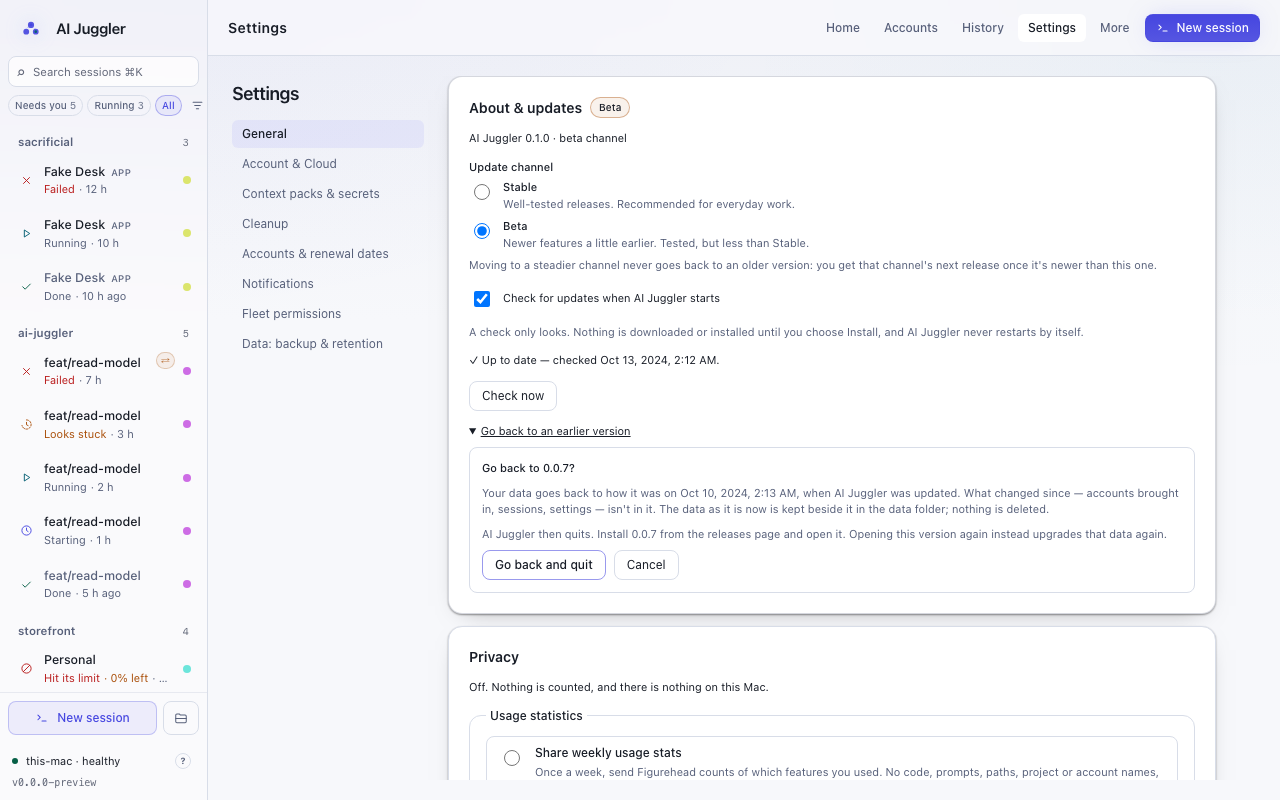
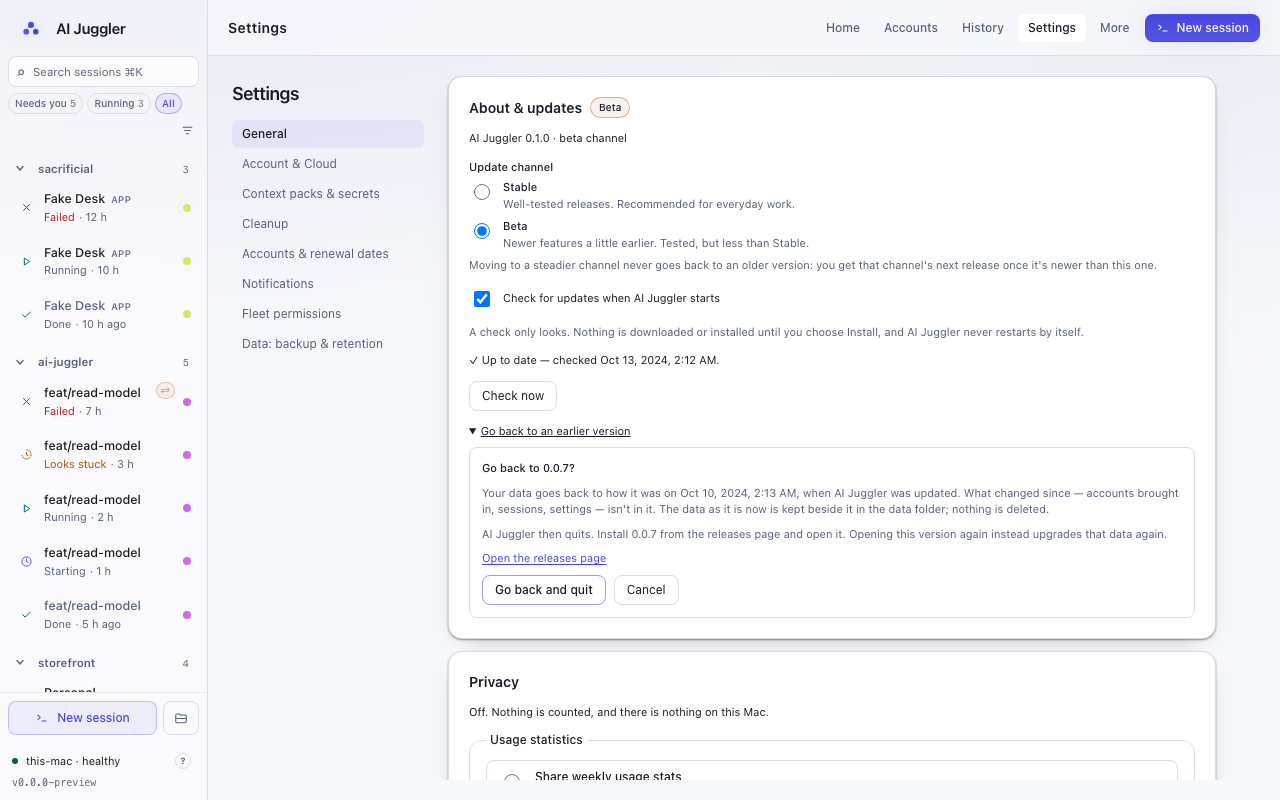
fix(updates): going back links to the version's release page (#107)
* fix(updates): going back links to the version's release page

0.0.11 walk, Q6 (coordinator: add an "Open the releases page" link next
to the install line). Going back said "Install 0.0.9 from the releases
page" with no link, and the next click quits the app. An "Open the
releases page" link now sits under that line. It opens the version's own
release (…/releases/tag/v0.0.9) when the kept copy names a plain version,
and the releases list otherwise. The URL is built in the backend
(newer_data::releases_page), so nothing else from the UI can reach the
link.

* docs(gallery): going back with the releases link

---------

Changed region(s): [[0.3438, 0.6875, 0.9688, 1.0], [0.0, 0.125, 0.1562, 0.875]]

diff --git a/ui/src/components/UpdatesCard.tsx b/ui/src/components/UpdatesCard.tsx
@@ -17,6 +17,7 @@ import { ReleaseNotes } from "./ReleaseNotes";
 import {
   errorText,
   goingBackOptions,
+  goingBackOpenReleases,
   goingBackPrepare,
   onUpdateStatus,
   updateCheck,
@@ -151,6 +152,16 @@ function GoingBack({ appName }: { appName: string }): JSX.Element | null {
               <p className="text-muted">
                 {appName} then quits. Install {name(option)} from the releases page and open it. Opening this version
                 again instead upgrades that data again.
+              </p>
+              <p>
+                <button
+                  type="button"
+                  onClick={() => void goingBackOpenReleases(option.version ?? null)}
+                  className="text-accent-hi underline underline-offset-2 outline-none hover:text-ink focus-visible:ring-1 focus-visible:ring-accent/60"
+                  data-testid="going-back-releases"
+                >
+                  Open the releases page
+                </button>
               </p>
               {error && (
                 <p role="alert" className="text-ink" data-testid="going-back-error">

diff --git a/ui/src/components/updates.test.tsx b/ui/src/components/updates.test.tsx
@@ -331,6 +331,14 @@ describe("AJ-E1010 going back to an earlier version", () => {
     expect(confirm.textContent).toContain("Install 0.0.7 from the releases page");
     expect(document.activeElement?.textContent).toBe("Go back to 0.0.7?");
     expect(calls()).toEqual([]);
+    // 0.0.11 walk, Q6: the install line links to that version's release,
+    // and opening it changes nothing here.
+    const releases = confirm.querySelector<HTMLButtonElement>("[data-testid='going-back-releases']")!;
+    expect(releases.textContent).toBe("Open the releases page");
+    fireEvent.click(releases);
+    expect(calls()).toEqual(["open-releases:0.0.7"]);
+    expect(container.querySelector("[data-testid='going-back-confirm']")).not.toBeNull();
+    w().__AIJ_UPDATE_CALLS__ = [];
     // Cancel returns focus to the choice; nothing happened.
     fireEvent.click(container.querySelector("[data-testid='going-back-cancel']")!);
     expect(document.activeElement?.getAttribute("data-testid")).toBe("going-back-27");

diff --git a/ui/src/lib/bridge.ts b/ui/src/lib/bridge.ts
@@ -4616,6 +4616,16 @@ export async function goingBackPrepare(schema: number): Promise<void> {
   return invoke<void>("going_back_prepare", { schema });
 }
 
+/** 0.0.11 walk (Q6): opens the page to install `version` from (its
+ * release, or the releases list). */
+export async function goingBackOpenReleases(version: string | null): Promise<void> {
+  if (!hasBackend) {
+    updateCall(`open-releases:${version ?? ""}`);
+    return;
+  }
+  return invoke<void>("going_back_open_releases", { version });
+}
+
 /** Update status changes pushed by the backend. */
 export function onUpdateStatus(handler: (status: UpdateStatusInfo) => void): () => void {
   if (!hasBackend) return () => {};

diff --git a/crates/juggler-app/src/newer_data.rs b/crates/juggler-app/src/newer_data.rs
@@ -361,6 +361,43 @@ pub fn going_back_prepare(state: tauri::State<'_, Arc<AppState>>, schema: i64) -
     Ok(())
 }
 
+/// Where AI Juggler's releases are published.
+pub const RELEASES_URL: &str = "https://github.com/figurehead-ai/AI-juggler/releases";
+
+/// Pure: the page to install `version` from — its release when it is a
+/// plain version number (`0.0.9`), else the releases list. Nothing else
+/// from the UI reaches the URL.
+#[must_use]
+pub fn releases_page(version: Option<&str>) -> String {
+    match version {
+        Some(v)
+            if !v.is_empty()
+                && v.len() <= 20
+                && v.split('.')
+                    .all(|part| !part.is_empty() && part.bytes().all(|b| b.is_ascii_digit())) =>
+        {
+            format!("{RELEASES_URL}/tag/v{v}")
+        }
+        _ => RELEASES_URL.to_string(),
+    }
+}
+
+/// 0.0.11 walk (Q6): opens the page to install the version going back to.
+///
+/// # Errors
+///
+/// When the system can't open the link.
+#[tauri::command]
+pub fn going_back_open_releases(app: tauri::AppHandle, version: Option<String>) -> AppResult<()> {
+    use tauri_plugin_opener::OpenerExt as _;
+    app.opener()
+        .open_url(releases_page(version.as_deref()), None::<&str>)
+        .map_err(|e| AppError::Io {
+            context: "releases page",
+            message: e.to_string(),
+        })
+}
+
 /// "20 Oct 2026" for an epoch-ms time (UTC day).
 fn day(ms: i64) -> String {
     const MONTHS: [&str; 12] = [

diff --git a/crates/juggler-app/tests/newer_data.rs b/crates/juggler-app/tests/newer_data.rs
@@ -441,3 +441,27 @@ fn going_back_needs_the_data_folder_to_itself() {
     drop(other);
     assert!(newer_data::hold_instance_lock(&dir), "free once it quits");
 }
+
+/// 0.0.11 walk (Q6): "Open the releases page" goes to the version's own
+/// release when it is a plain version, else the list — nothing else
+/// from the UI can reach the link.
+#[test]
+fn the_releases_page_is_the_versions_own_or_the_list() {
+    let list = newer_data::RELEASES_URL;
+    assert_eq!(
+        newer_data::releases_page(Some("0.0.9")),
+        format!("{list}/tag/v0.0.9")
+    );
+    assert_eq!(newer_data::releases_page(None), list);
+    for odd in [
+        "",
+        "0..9",
+        "0.0.9-beta",
+        "../../evil",
+        "0.0.9?x=1",
+        "v0.0.9",
+        "1.2.3.4.5.6.7.8.9.10.11",
+    ] {
+        assert_eq!(newer_data::releases_page(Some(odd)), list, "{odd:?}");
+    }
+}

diff --git a/crates/juggler-app/src/lib.rs b/crates/juggler-app/src/lib.rs
@@ -269,6 +269,7 @@ pub fn run() {
             updates::update_restart,
             newer_data::going_back_options,
             newer_data::going_back_prepare,
+            newer_data::going_back_open_releases,
             backup::backup_export,
             backup::backup_verify,
             backup::backup_restore,
